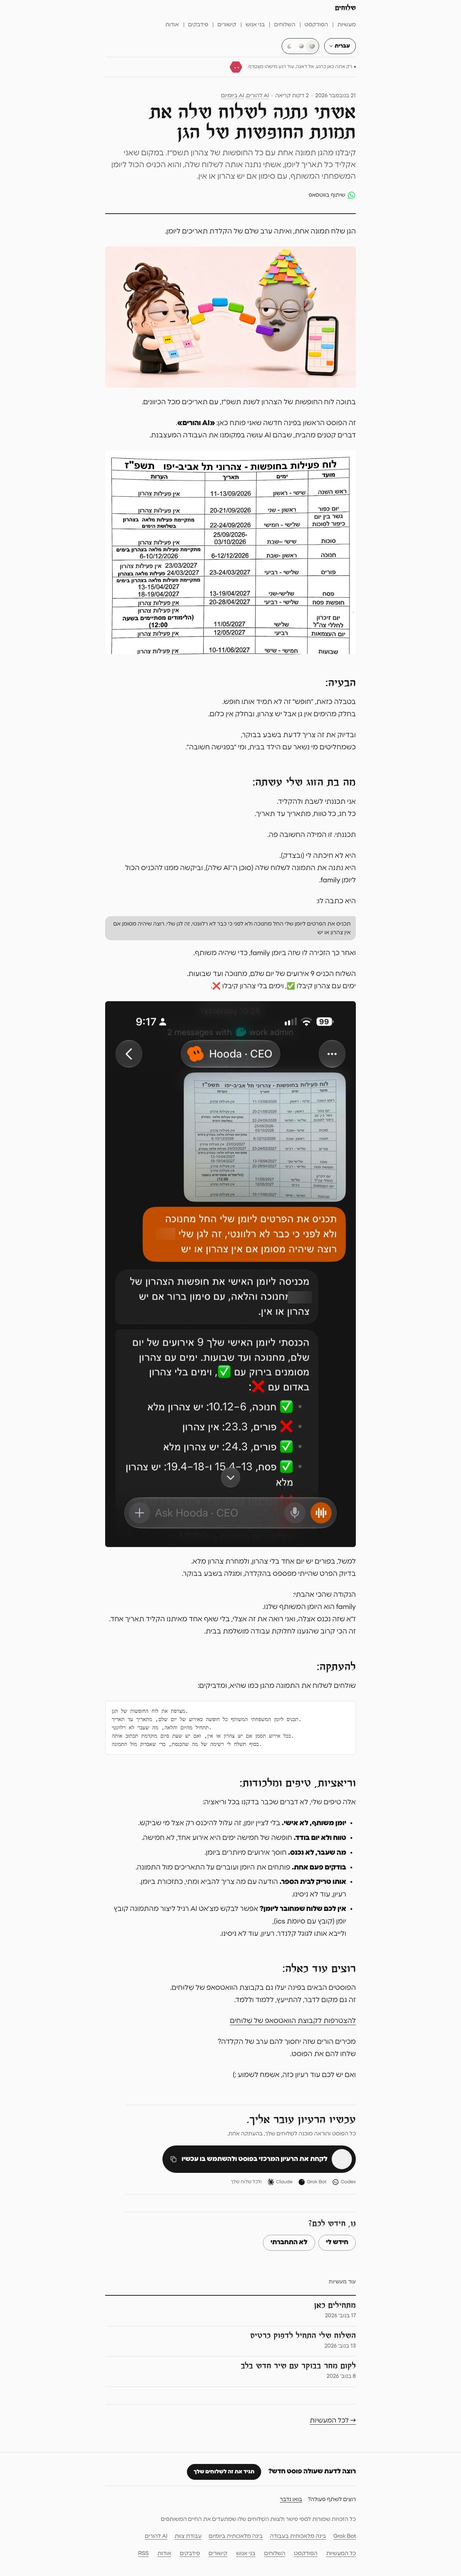
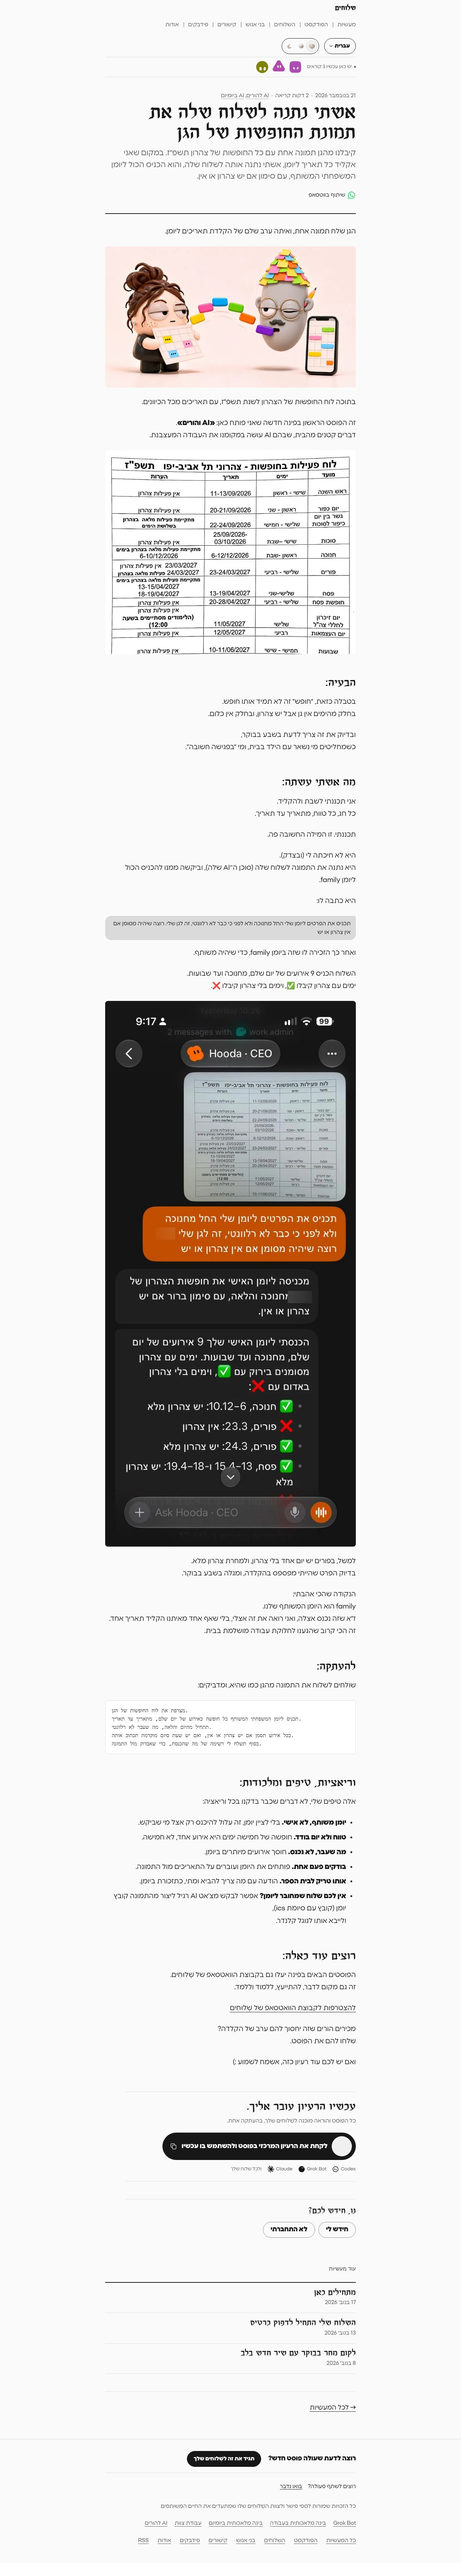
content: SEF-276 «אשתי» in HE heading; drop «לא ניסינו» remarks (HE/EN/AR)

Changed region(s): [[0.25, 0.0, 0.7812, 0.9359], [0.4688, 0.0936, 0.5, 0.1248], [0.25, 0.4056, 0.2812, 0.4368]]

diff --git a/src/content/posts/he/2026-11-21-gan-vacations-calendar.md b/src/content/posts/he/2026-11-21-gan-vacations-calendar.md
@@ -32,7 +32,7 @@ translationKey: "2026-11-21-gan-vacations-calendar"
 ובדיוק את זה צריך לדעת בשבע בבוקר,
 כשמחליטים מי נשאר עם הילד בבית, ומי ״בפגישה חשובה״.
 
-## מה בת הזוג שלי עשתה:
+## מה אשתי עשתה:
 
 אני תכננתי לשבת ולהקליד.
 כל חג, כל טווח, מתאריך עד תאריך.
@@ -82,9 +82,8 @@ family הוא היומן המשותף שלנו.
 - **מה שעבר, לא נכנס.** חוסך אירועים מיותרים ביומן.
 - **בודקים פעם אחת.** פותחים את היומן ועוברים על התאריכים מול התמונה.
 - **אותו טריק לבית הספר.** הודעה עם מה צריך להביא ומתי, כתזכורת ביומן.
-  רעיון, עוד לא ניסינו.
 - **אין לכם שלוח שמחובר ליומן?** אפשר לבקש מצ׳אט AI רגיל ליצור מהתמונה קובץ יומן (קובץ עם סיומת ics),
-  ולייבא אותו לגוגל קלנדר. רעיון, עוד לא ניסינו.
+  ולייבא אותו לגוגל קלנדר.
 
 ## רוצים עוד כאלה:
 

diff --git a/src/content/posts/ar/2026-11-21-gan-vacations-calendar.md b/src/content/posts/ar/2026-11-21-gan-vacations-calendar.md
@@ -84,9 +84,8 @@ translationKey: "2026-11-21-gan-vacations-calendar"
 - **ما مضى لا يدخل.** هكذا تتجنّبون أحداثًا زائدة في التقويم.
 - **راجعوا مرة واحدة.** افتحوا التقويم وطابقوا التواريخ مع الصورة.
 - **الحيلة نفسها للمدرسة.** رسالة فيها ما يجب إحضاره ومتى، كتذكير في التقويم.
-  فكرة، لم نجرّبها بعد.
 - **ليس لديكم shaliach متصل بالتقويم؟** يمكنكم أن تطلبوا من أي روبوت محادثة عادي بالذكاء الاصطناعي إنشاء ملف تقويم من الصورة (ملف بامتداد ics)،
-  ثم تستوردوه إلى <bdi dir="ltr">Google Calendar</bdi>. فكرة، لم نجرّبها بعد.
+  ثم تستوردوه إلى <bdi dir="ltr">Google Calendar</bdi>.
 
 ## تريدون المزيد من هذا:
 

diff --git a/src/content/posts/en/2026-11-21-gan-vacations-calendar.md b/src/content/posts/en/2026-11-21-gan-vacations-calendar.md
@@ -89,9 +89,8 @@ These are my tips, not things we've already tested in every variation:
 - **What's past stays out.** It saves you extra events in the calendar.
 - **Check once.** Open the calendar and go over the dates against the photo.
 - **Same trick for school.** A message with what to bring and when, as a calendar reminder.
-  An idea, we haven't tried it yet.
 - **No shaliach connected to your calendar?** You can ask a regular AI chat to turn the photo into a calendar file (a file ending in .ics),
-  and import it into Google Calendar. An idea, we haven't tried it yet.
+  and import it into Google Calendar.
 
 ## Want more like this:
 
